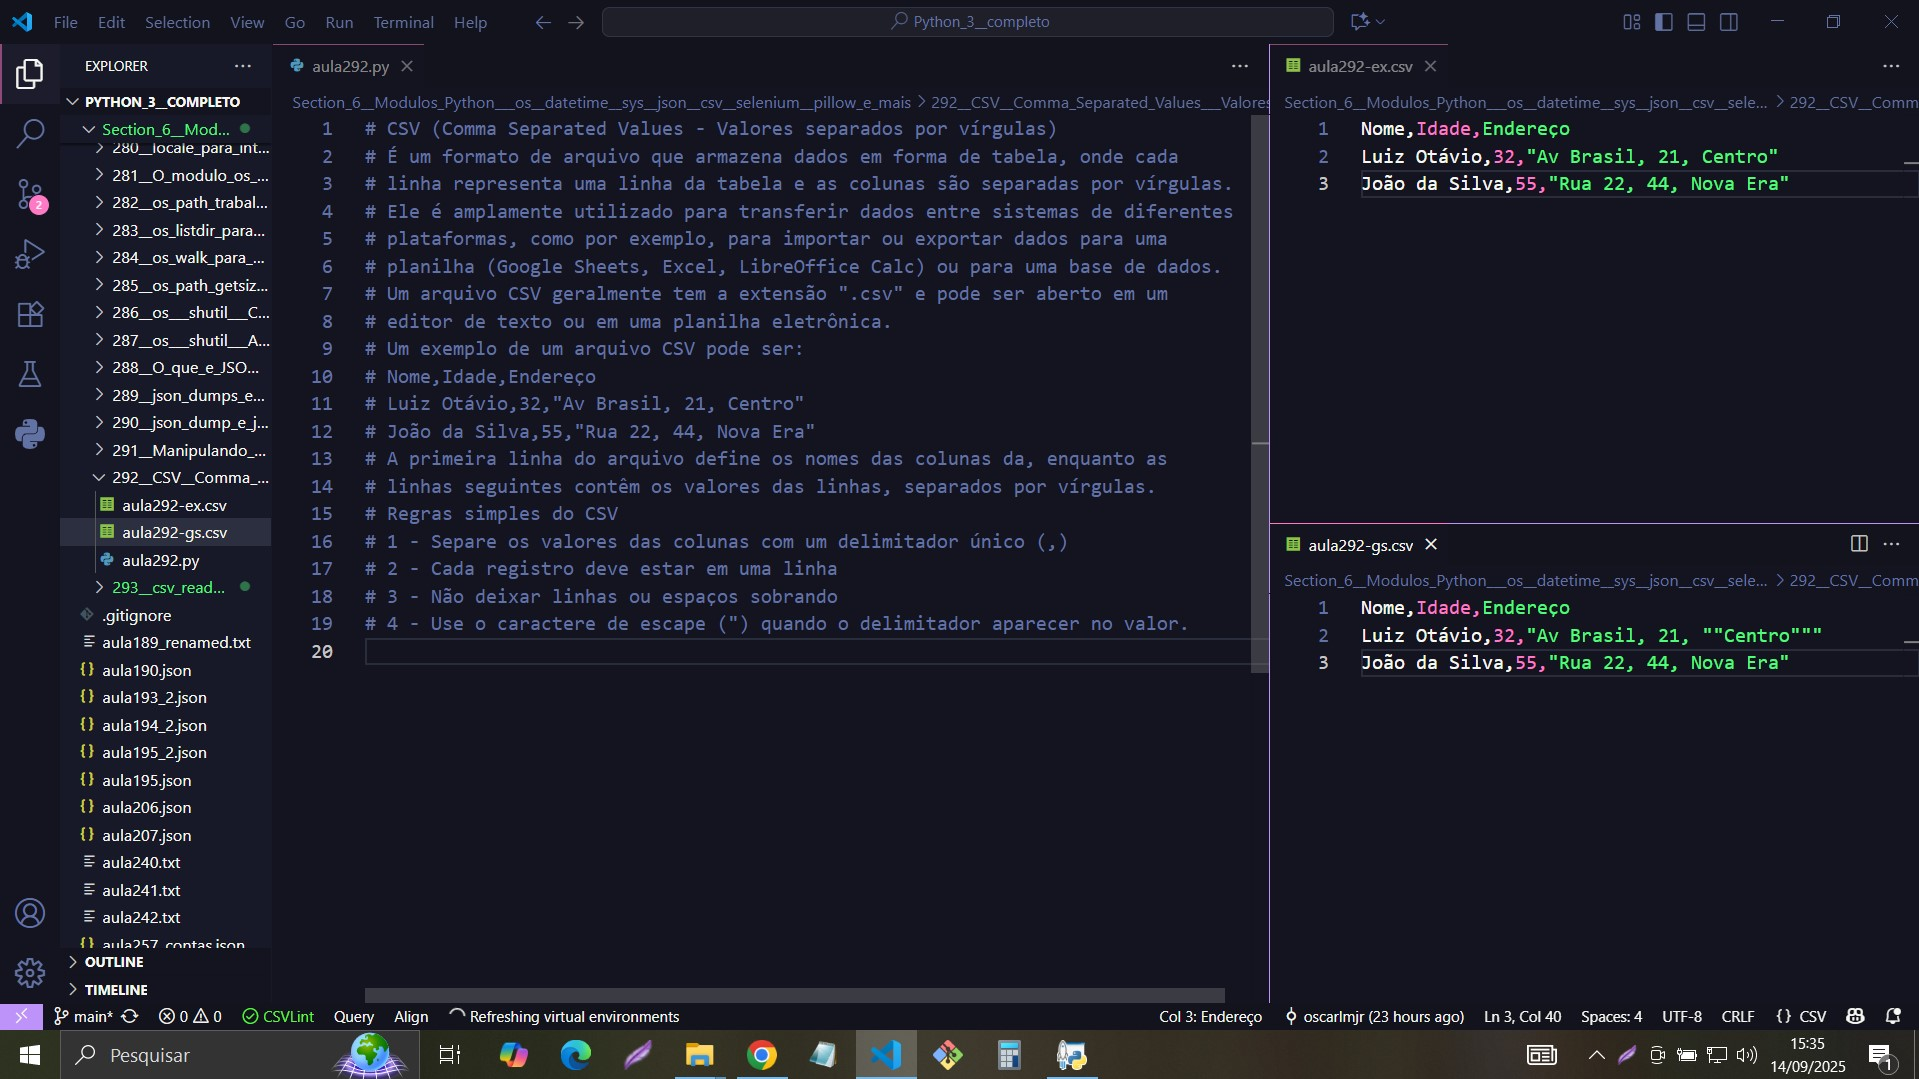
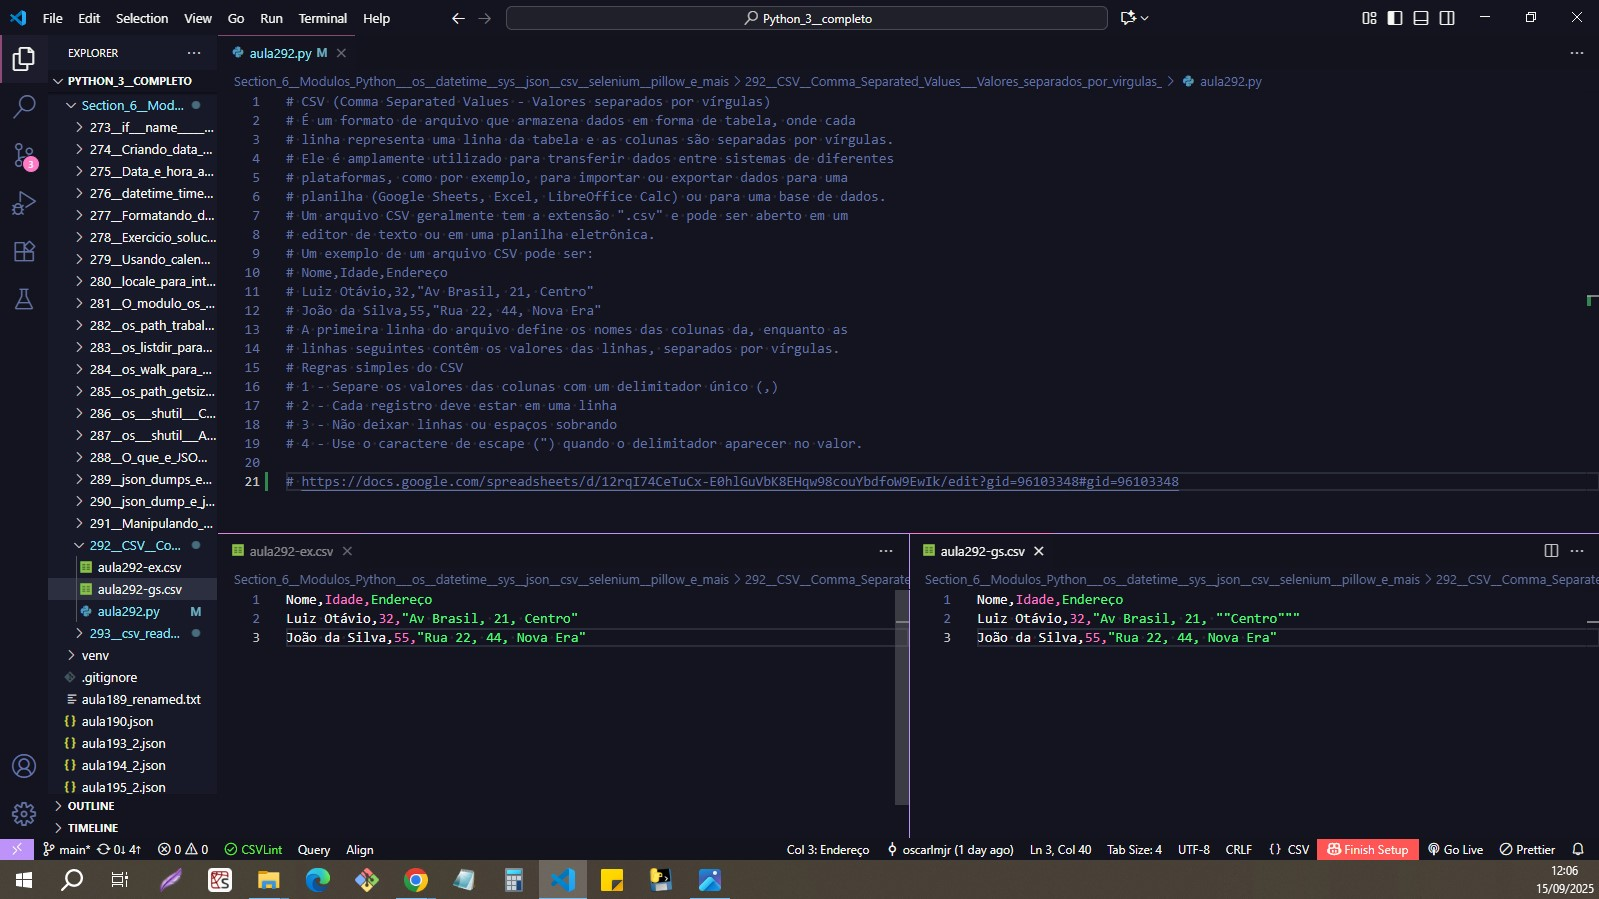
secao_6 297

diff --git a/Section_6__Modulos_Python___os__datetime__sys__json__csv__selenium__pillow_e_mais/294__csv_writer_e_csv_DictWriter_para_escrever_em_CSV/aula294_2.py b/Section_6__Modulos_Python___os__datetime__sys__json__csv__selenium__pillow_e_mais/294__csv_writer_e_csv_DictWriter_para_escrever_em_CSV/aula294_2.py
@@ -1,0 +1,42 @@
+# csv.writer e csv.DictWriter para escrever em CSV
+# csv.reader lê o CSV em formato de lista
+# csv.DictReader lê o CSV em formato de dicionário
+import csv
+from pathlib import Path
+
+
+CAMINHO_CSV = Path(__file__).parent / 'aula294.csv'
+
+lista_clientes = [
+    {'Nome': 'Luiz Otávio', 'Endereço': 'Av 1, 22'},
+    {'Nome': 'João Silva', 'Endereço': 'R. 2, "1"'},
+    {'Nome': 'Maria Sol', 'Endereço': 'Av B, 3A'},
+]
+
+with open(CAMINHO_CSV, 'w', encoding='utf8') as arquivo:
+    nome_colunas = lista_clientes[0].keys()
+    escritor = csv.DictWriter(
+        arquivo,
+        fieldnames=nome_colunas
+    )
+    escritor.writeheader()
+
+    for cliente in lista_clientes:
+        print(cliente)
+        escritor.writerow(cliente)
+
+
+# lista_clientes = [
+#     ['Luiz Otávio', 'Av 1, 22'],
+#     ['João Silva', 'R. 2, "1"'],
+#     ['Maria Sol', 'Av B, 3A'],
+# ]
+# with open(CAMINHO_CSV, 'w') as arquivo:
+#     # nome_colunas = lista_clientes[0].keys()
+#     nome_colunas = ['Nome', 'Endereço']
+#     escritor = csv.writer(arquivo)
+
+#     escritor.writerow(nome_colunas)
+
+#     for cliente in lista_clientes:
+#         escritor.writerow(cliente)

diff --git a/Section_6__Modulos_Python___os__datetime__sys__json__csv__selenium__pillow_e_mais/296__random_tem_geradores_de_numeros_pseudoaleatorios__sample__choices__seed_/aula296.py b/Section_6__Modulos_Python___os__datetime__sys__json__csv__selenium__pillow_e_mais/296__random_tem_geradores_de_numeros_pseudoaleatorios__sample__choices__seed_/aula296.py
@@ -1,0 +1,36 @@
+# random tem geradores de números pseudoaleatórios
+# Obs.: números pseudoaleatórios significa que os números
+# parecem ser aleatórios, mas na verdade não são. Portanto,
+# este módulo não deve ser usado para segurança ou uso criptográfico.
+# O motivo disso é que quando temos uma mesma entrada e um mesmo algorítimo,
+# a saída pode ser previsível.
+# doc: https://docs.python.org/pt-br/3/library/random.html
+import random
+import time
+
+
+# random.seed(0)
+# random.seed(time.time())
+# print(time.time())
+
+# random.shuffle(SequenciaMutável) -> Embaralha a lista original
+nomes = ['Luiz', 'Maria', 'Helena', 'Joana']
+
+random.shuffle(nomes)
+print(nomes)
+
+# random.sample(Iterável, k=N)
+#   -> Escolhe elementos do iterável e retorna outro iterável (não repete)
+novos_nomes = random.sample(nomes, k=2)
+print(novos_nomes)
+
+# # random.choices(Iterável, k=N)
+# #   -> Escolhe elementos do iterável e retorna outro iterável (repete valores)
+novos_nomes = random.choices(nomes, k=2)
+print(novos_nomes)
+
+# random.choice(Iterável) -> Escolhe um elemento do iterável
+print(random.choice(nomes))
+
+random.seed(time.time())
+print(time.time())

diff --git a/Section_6__Modulos_Python___os__datetime__sys__json__csv__selenium__pillow_e_mais/296__random_tem_geradores_de_numeros_pseudoaleatorios__sample__choices__seed_/aula296_2.py b/Section_6__Modulos_Python___os__datetime__sys__json__csv__selenium__pillow_e_mais/296__random_tem_geradores_de_numeros_pseudoaleatorios__sample__choices__seed_/aula296_2.py
@@ -1,0 +1,36 @@
+# random tem geradores de números pseudoaleatórios
+# Obs.: números pseudoaleatórios significa que os números
+# parecem ser aleatórios, mas na verdade não são. Portanto,
+# este módulo não deve ser usado para segurança ou uso criptográfico.
+# O motivo disso é que quando temos uma mesma entrada e um mesmo algorítimo,
+# a saída pode ser previsível.
+# doc: https://docs.python.org/pt-br/3/library/random.html
+import random
+import time
+
+
+random.seed(0)
+# random.seed(time.time())
+# print(time.time())
+
+# random.shuffle(SequenciaMutável) -> Embaralha a lista original
+nomes = ['Luiz', 'Maria', 'Helena', 'Joana']
+
+random.shuffle(nomes)
+print(nomes)
+
+# random.sample(Iterável, k=N)
+#   -> Escolhe elementos do iterável e retorna outro iterável (não repete)
+novos_nomes = random.sample(nomes, k=2)
+print(novos_nomes)
+
+# # random.choices(Iterável, k=N)
+# #   -> Escolhe elementos do iterável e retorna outro iterável (repete valores)
+novos_nomes = random.choices(nomes, k=2)
+print(novos_nomes)
+
+# random.choice(Iterável) -> Escolhe um elemento do iterável
+print(random.choice(nomes))
+
+random.seed(time.time())
+print(time.time())

diff --git a/Section_6__Modulos_Python___os__datetime__sys__json__csv__selenium__pillow_e_mais/295__random_tem_geradores_de_numeros_pseudoaleatorios__randrange__randint__uniform_/aula295.py b/Section_6__Modulos_Python___os__datetime__sys__json__csv__selenium__pillow_e_mais/295__random_tem_geradores_de_numeros_pseudoaleatorios__randrange__randint__uniform_/aula295.py
@@ -1,0 +1,30 @@
+# random tem geradores de números pseudoaleatórios
+# Obs.: números pseudoaleatórios significa que os números
+# parecem ser aleatórios, mas na verdade não são. Portanto,
+# este módulo não deve ser usado para segurança ou uso criptográfico.
+# O motivo disso é que quando temos uma mesma entrada e um mesmo algorítimo,
+# a saída pode ser previsível.
+# doc: https://docs.python.org/pt-br/3/library/random.html
+import random
+
+# Funções:
+# seed
+#   -> Inicializa o gerador de random (por isso "números pseudoaleatórios")
+# random.seed(0)
+# random.seed(time.time())
+# print(time.time())
+
+# random.randrange(início, fim, passo)
+#   -> Gera um número inteiro aleatório dentro de um intervalo específico
+r_range = random.randrange(10, 20, 2)
+print(r_range)
+
+# random.randint(início, fim)
+#   -> Gera um número inteiro aleatório dentro de um intervalo "sem passo"
+r_int = random.randint(10, 20)
+print(r_int)
+
+# # random.uniform(início, fim)
+# #   -> Gera um número flutuante aleatório dentro de um intervalo "sem passo"
+r_uniform = random.uniform(10, 20)
+print(f'{r_uniform:.2f}')

diff --git a/Section_6__Modulos_Python___os__datetime__sys__json__csv__selenium__pillow_e_mais/298_string_Template_para_substituir_variaveis_em_textos/aula298.py b/Section_6__Modulos_Python___os__datetime__sys__json__csv__selenium__pillow_e_mais/298_string_Template_para_substituir_variaveis_em_textos/aula298.py
@@ -1,0 +1,40 @@
+# string.Template para substituir variáveis em textos
+# doc: https://docs.python.org/3/library/string.html#template-strings
+# Métodos:
+# substitute: substitui mas gera erros se faltar chaves
+# safe_substitute: substitui sem gerar erros
+# Você também pode trocar o delimitador e outras coisas criando uma subclasse
+# de template.
+import locale
+import string
+from datetime import datetime
+from pathlib import Path
+
+CAMINHO_ARQUIVO = Path(__file__).parent / 'aula183.txt'
+
+locale.setlocale(locale.LC_ALL, '')
+
+
+def converte_para_brl(numero: float) -> str:
+    brl = 'R$ ' + locale.currency(numero, symbol=False, grouping=True)
+    return brl
+
+
+data = datetime(2022, 12, 28)
+dados = dict(
+    nome='João',
+    valor=converte_para_brl(1_234_456),
+    data=data.strftime('%d/%m/%Y'),
+    empresa='O. M.',
+    telefone='+55 (11) 7890-5432'
+)
+
+
+class MyTemplate(string.Template):
+    delimiter = '%'
+
+
+with open(CAMINHO_ARQUIVO, 'r') as arquivo:
+    texto = arquivo.read()
+    template = MyTemplate(texto)
+    print(template.substitute(dados))

diff --git a/Section_6__Modulos_Python___os__datetime__sys__json__csv__selenium__pillow_e_mais/297__secrets_gera_numeros_aleatorios_seguros/aula297.py b/Section_6__Modulos_Python___os__datetime__sys__json__csv__selenium__pillow_e_mais/297__secrets_gera_numeros_aleatorios_seguros/aula297.py
@@ -1,0 +1,34 @@
+# secrets gera números aleatórios seguros
+import secrets
+
+
+print(secrets.randbelow(100))
+print(secrets.choice([10, 11, 12]))
+
+
+random = secrets.SystemRandom()
+
+# Funções:
+# seed
+#   -> NÃO FAZ NADA
+random.seed(10)
+
+# random.randrange(início, fim, passo)
+#   -> Gera um número inteiro aleatório dentro de um intervalo específico
+r_range = random.randrange(10, 20, 2)
+print(r_range)
+
+# random.randint(início, fim)
+#   -> Gera um número inteiro aleatório dentro de um intervalo "sem passo"
+r_int = random.randint(10, 20)
+print(r_int)
+
+# random.uniform(início, fim)
+#   -> Gera um número flutuante aleatório dentro de um intervalo "sem passo"
+r_uniform = random.uniform(10, 20)
+print(r_uniform)
+
+# random.shuffle(SequenciaMutável) -> Embaralha a lista original
+nomes = ['Luiz', 'Maria', 'Helena', 'Joana']
+random.shuffle(nomes)
+print(nomes)

diff --git a/Section_6__Modulos_Python___os__datetime__sys__json__csv__selenium__pillow_e_mais/297__secrets_gera_numeros_aleatorios_seguros/aula297_2.py b/Section_6__Modulos_Python___os__datetime__sys__json__csv__selenium__pillow_e_mais/297__secrets_gera_numeros_aleatorios_seguros/aula297_2.py
@@ -1,0 +1,31 @@
+# secrets gera números aleatórios seguros
+import secrets
+
+
+print(secrets.randbelow(100))
+print(secrets.choice([10, 11, 12]))
+
+
+random = secrets.SystemRandom()
+
+# Funções:
+# seed
+#   -> NÃO FAZ NADA
+random.seed(10)
+
+
+# random.sample(Iterável, k=N)
+#   -> Escolhe elementos do iterável e retorna outro iterável (não repete)
+nomes = ['Luiz', 'Maria', 'Helena', 'Joana']
+novos_nomes = random.sample(nomes, k=3)
+print(nomes)
+print(novos_nomes)
+
+# random.choices(Iterável, k=N)
+#   -> Escolhe elementos do iterável e retorna outro iterável (repete valores)
+novos_nomes = random.choices(nomes, k=3)
+print(nomes)
+print(novos_nomes)
+
+# random.choice(Iterável) -> Escolhe um elemento do iterável
+print(random.choice(nomes))

diff --git a/Section_6__Modulos_Python___os__datetime__sys__json__csv__selenium__pillow_e_mais/294__csv_writer_e_csv_DictWriter_para_escrever_em_CSV/aula294.py b/Section_6__Modulos_Python___os__datetime__sys__json__csv__selenium__pillow_e_mais/294__csv_writer_e_csv_DictWriter_para_escrever_em_CSV/aula294.py
@@ -1,0 +1,24 @@
+# csv.writer e csv.DictWriter para escrever em CSV
+# csv.reader lê o CSV em formato de lista
+# csv.DictReader lê o CSV em formato de dicionário
+import csv
+from pathlib import Path
+
+
+CAMINHO_CSV = Path(__file__).parent / 'aula294.csv'
+
+lista_clientes = [
+    {'Nome': 'Luiz Otávio', 'Endereço': 'Av 1, 22'},
+    {'Nome': 'João Silva', 'Endereço': 'R. 2, "1"'},
+    {'Nome': 'Maria Sol', 'Endereço': 'Av B, 3A'},
+]
+
+with open(CAMINHO_CSV, 'w', encoding='utf8') as arquivo:
+    nome_colunas = lista_clientes[0].keys()
+    escritor = csv.writer(arquivo)
+
+    escritor.writerow(nome_colunas)
+
+    for cliente in lista_clientes:
+        print(cliente)
+        escritor.writerow(cliente.values())

diff --git a/Section_6__Modulos_Python___os__datetime__sys__json__csv__selenium__pillow_e_mais/293__csv_reader_e_csv_DictReader_para_ler_arquivos/aula293.py b/Section_6__Modulos_Python___os__datetime__sys__json__csv__selenium__pillow_e_mais/293__csv_reader_e_csv_DictReader_para_ler_arquivos/aula293.py
@@ -1,3 +1,4 @@
+# https://docs.google.com/spreadsheets/d/12rqI74CeTuCx-E0hlGuVbK8EHqw98couYbdfoW9EwIk/edit?gid=96103348#gid=96103348
 # csv.reader e csv.DictReader
 # csv.reader lê o CSV em formato de lista
 # csv.DictReader lê o CSV em formato de dicionário
@@ -7,13 +8,13 @@ from pathlib import Path
 
 CAMINHO_CSV = Path(__file__).parent / 'aula293.csv'
 
-with open(CAMINHO_CSV, 'r') as arquivo:
+with open(CAMINHO_CSV, 'r', encoding='utf8') as arquivo:
+# with open(CAMINHO_CSV, 'r') as arquivo:
 	leitor = csv.DictReader(arquivo)
 
 	for linha in leitor:
 		print(linha['Nome'], linha['Idade'], linha['Endereço'])
 
-# with open(CAMINHO_CSV, 'r') as arquivo:
 	leitor = csv.reader(arquivo)
 
 	for linha in leitor:

diff --git a/Section_6__Modulos_Python___os__datetime__sys__json__csv__selenium__pillow_e_mais/297__secrets_gera_numeros_aleatorios_seguros/aula297_3.py b/Section_6__Modulos_Python___os__datetime__sys__json__csv__selenium__pillow_e_mais/297__secrets_gera_numeros_aleatorios_seguros/aula297_3.py
@@ -1,0 +1,14 @@
+# secrets gera números aleatórios seguros
+import secrets
+import string as s
+from secrets import SystemRandom as Sr
+
+
+print()
+print(s.ascii_letters)
+print(s.digits)
+print(s.punctuation, '\n')
+print(''.join(Sr().choices(s.ascii_letters + s.digits + s.punctuation, k=12)), '\n')
+
+# python -c "import string as s;from secrets import SystemRandom as Sr; print(
+# ''.join(Sr().choices(s.ascii_letters + s.punctuation + s.digits,k=12)))"

diff --git a/Section_6__Modulos_Python___os__datetime__sys__json__csv__selenium__pillow_e_mais/292__CSV__Comma_Separated_Values___Valores_separados_por_virgulas_/aula292.py b/Section_6__Modulos_Python___os__datetime__sys__json__csv__selenium__pillow_e_mais/292__CSV__Comma_Separated_Values___Valores_separados_por_virgulas_/aula292.py
@@ -17,3 +17,5 @@
 # 2 - Cada registro deve estar em uma linha
 # 3 - Não deixar linhas ou espaços sobrando
 # 4 - Use o caractere de escape (") quando o delimitador aparecer no valor.
+
+# https://docs.google.com/spreadsheets/d/12rqI74CeTuCx-E0hlGuVbK8EHqw98couYbdfoW9EwIk/edit?gid=96103348#gid=96103348
